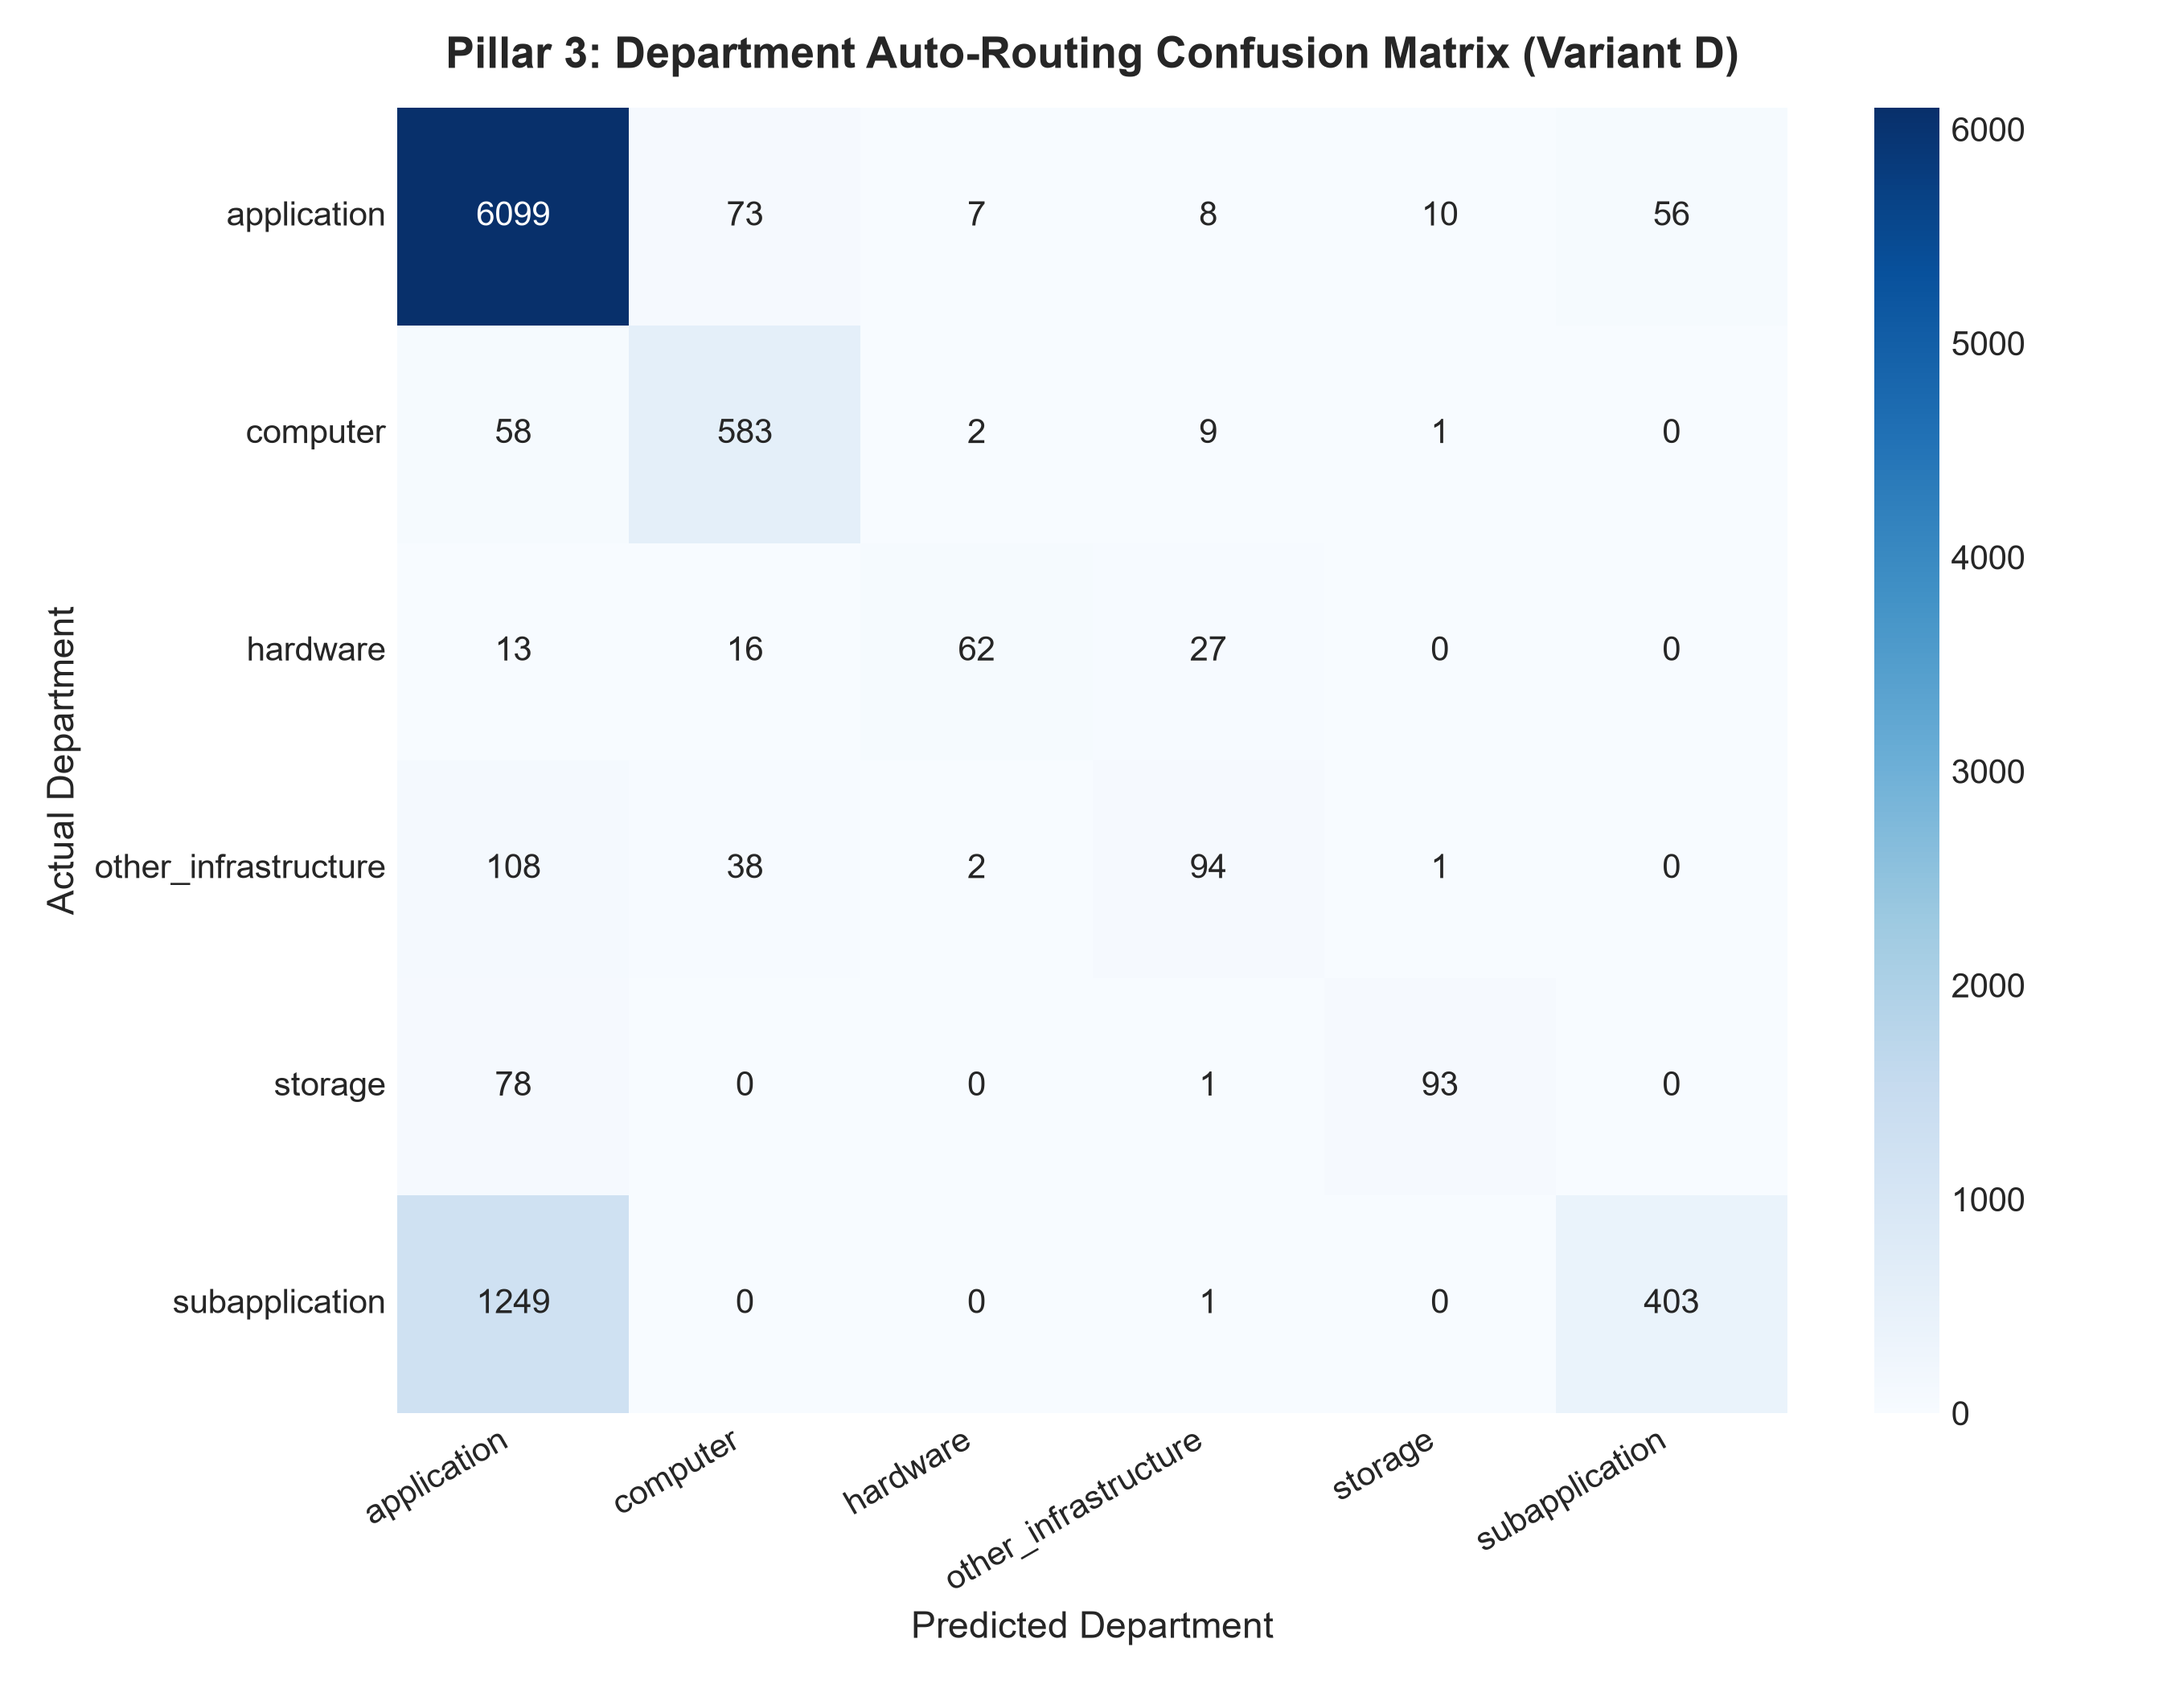
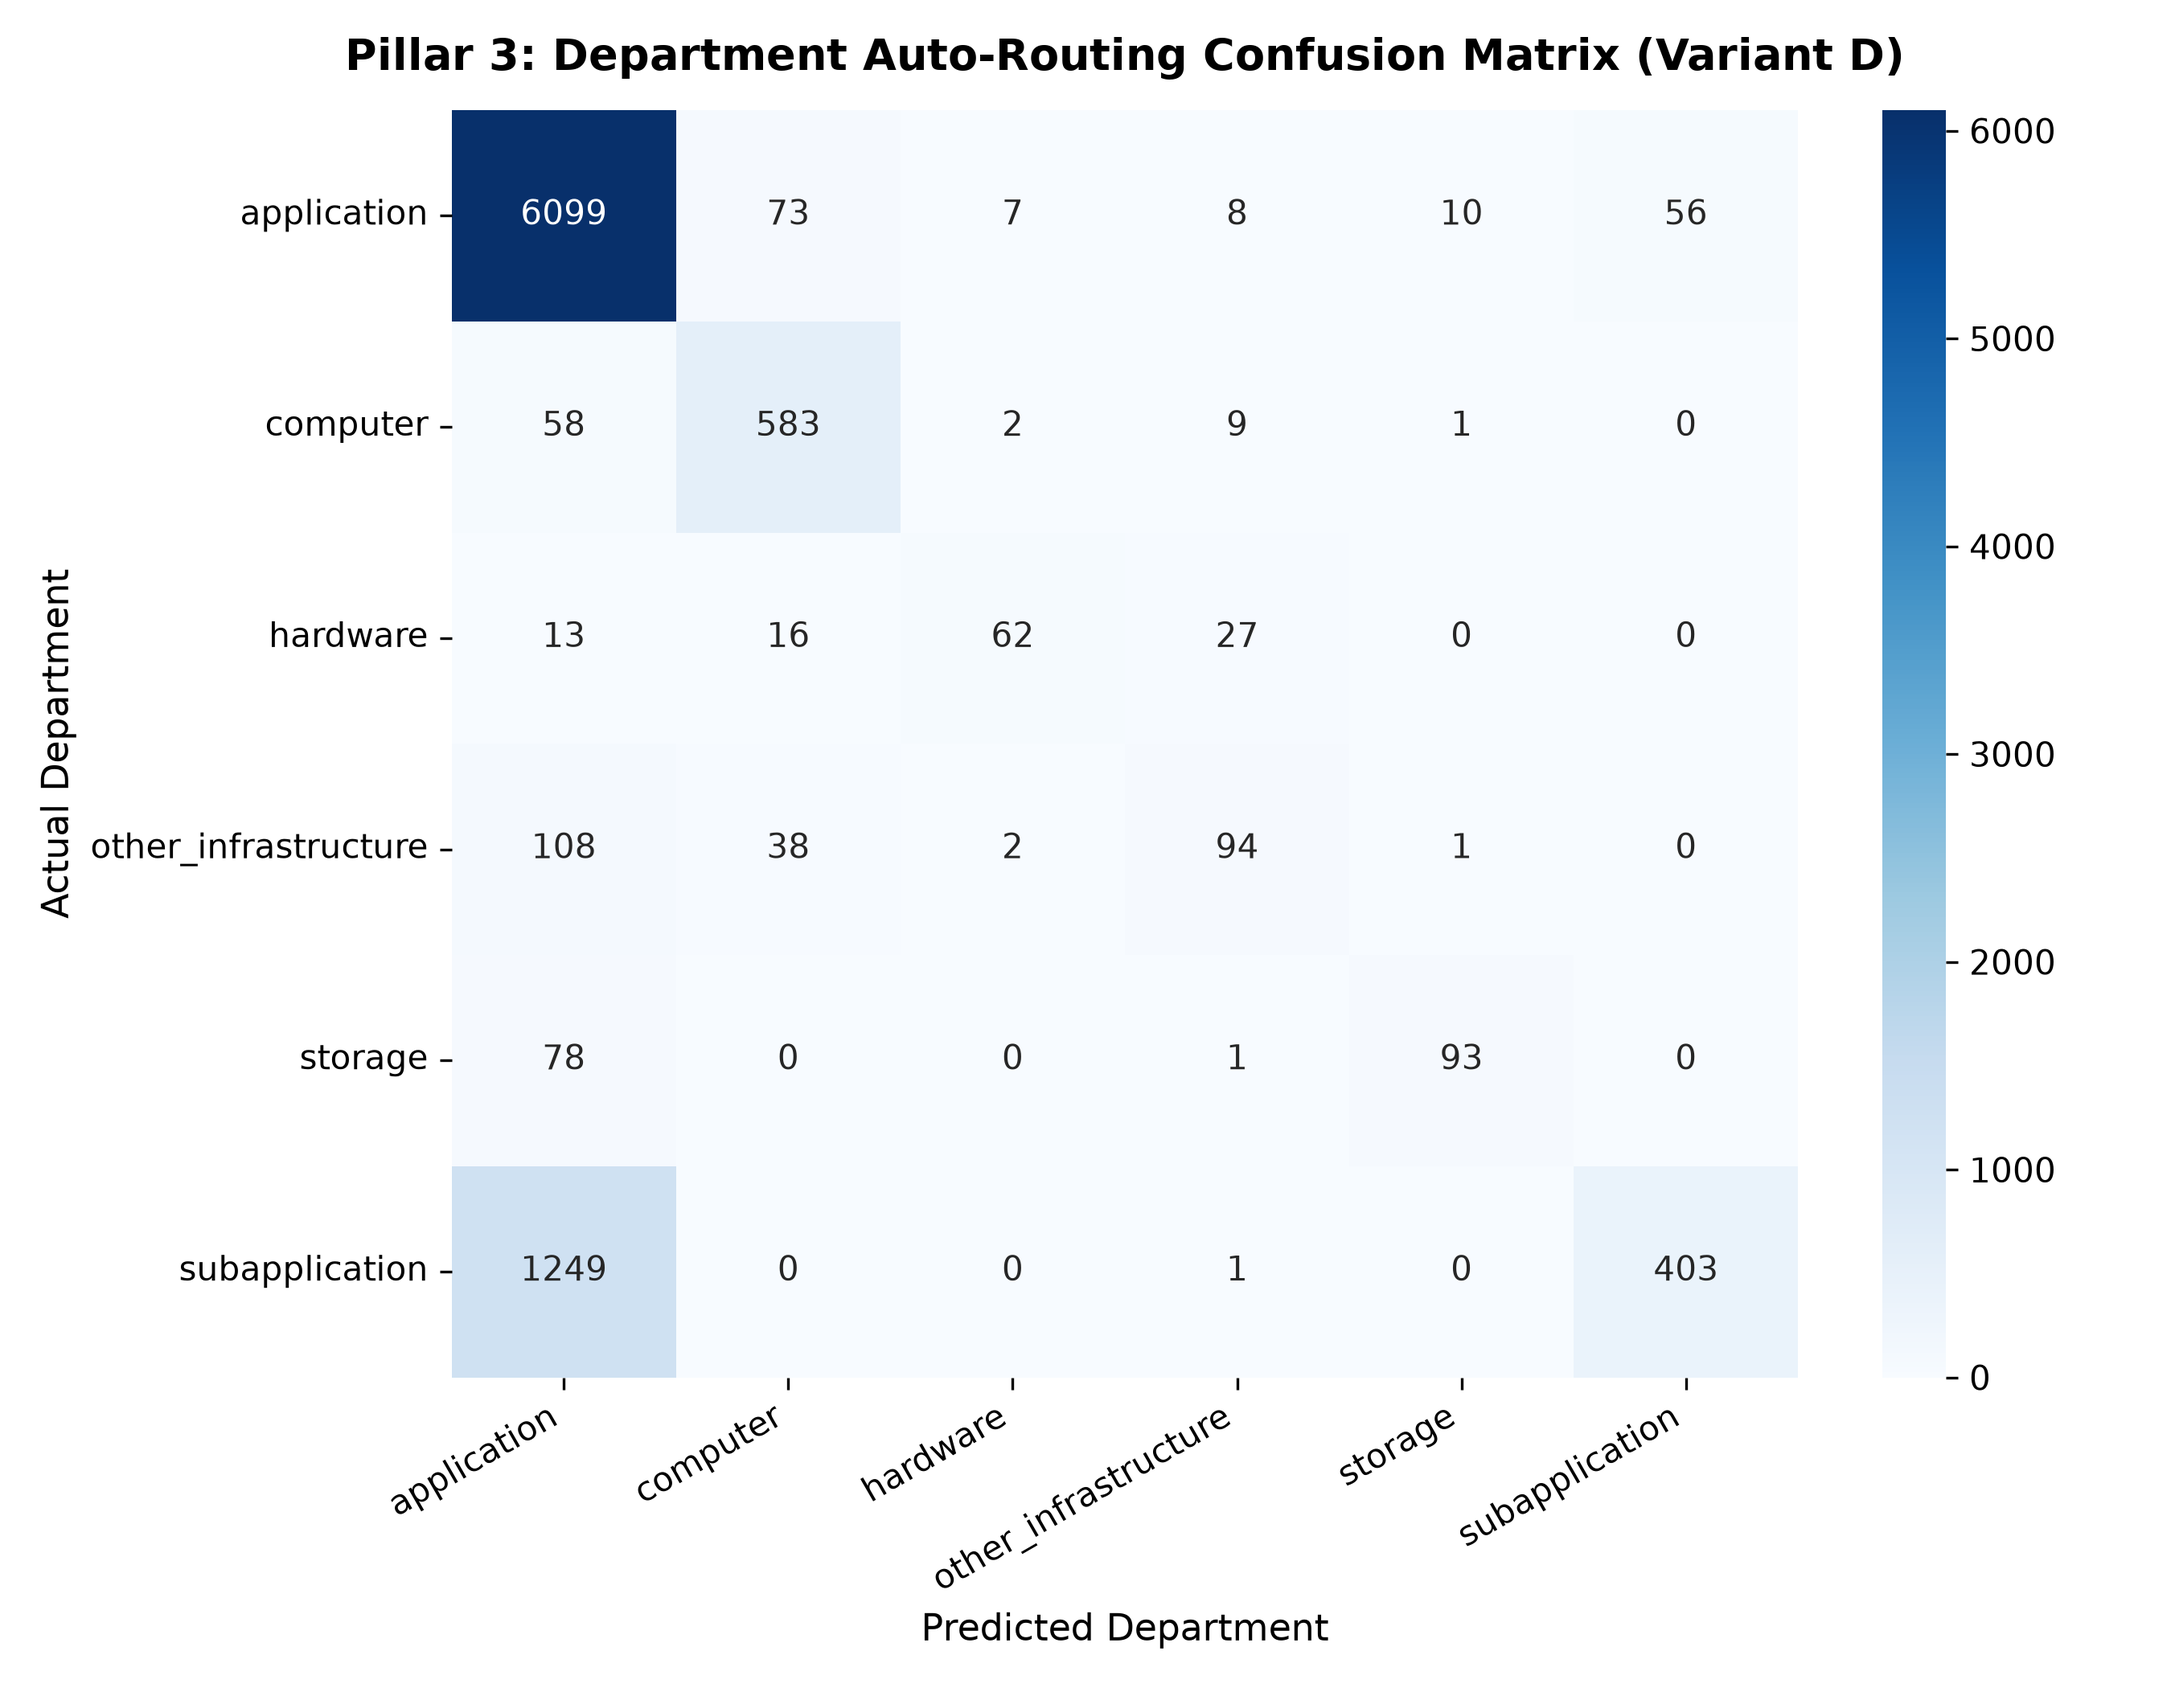
fix(ui): resolve plot overlaps in Fig 10/12, eliminate Streamlit Cloud KeyError, and add  attribution

diff --git a/app.py b/app.py
@@ -11,7 +11,13 @@ import pandas as pd
 import streamlit as st
 import joblib
 
-from src.config import FIGURES_DIR, MODELS_DIR, REPORTS_DIR
+from src.config import (
+    ARI_MIN_INCIDENTS,
+    ARI_SHRINKAGE_M,
+    FIGURES_DIR,
+    MODELS_DIR,
+    REPORTS_DIR,
+)
 
 st.set_page_config(
     page_title="ABC Tech | ITSM Machine Learning Suite",
@@ -36,7 +42,7 @@ st.markdown("""
 """, unsafe_allow_html=True)
 
 st.markdown('<div class="main-title">ABC Tech — ITSM Predictive Intelligence Platform</div>', unsafe_allow_html=True)
-st.markdown('<div class="sub-title">ITIL Process Optimization, Early Warning Triage, Volume Forecasting & Asset Risk Profiling</div>', unsafe_allow_html=True)
+st.markdown('<div class="sub-title">ITIL Process Optimization, Early Warning Triage, Volume Forecasting & Asset Risk Profiling<br><span style="font-size: 0.95rem; color: #4b5563; font-weight: 600;">Author: Dhruv Patel (Data Scientist)</span></div>', unsafe_allow_html=True)
 
 # Helper function to load models and single source of truth metrics
 @st.cache_resource
@@ -138,6 +144,7 @@ sidebar_nav = st.sidebar.radio(
 )
 
 st.sidebar.markdown("---")
+st.sidebar.markdown("**Lead Data Scientist**: Dhruv Patel")
 st.sidebar.markdown("**Framework**: ITIL Process Framework + Machine Learning")
 st.sidebar.markdown(f"**Dataset**: {dl_m['total_rows'] / 1000:.1f}K Records ({ds['min_year']}-{ds['max_year']})")
 
@@ -346,7 +353,11 @@ elif sidebar_nav == "Pillar 4: Asset Risk & RFC":
     st.image(str(FIGURES_DIR / "12_pillar4_ci_asset_risk_matrix.png"), width="stretch")
 
     st.markdown("### Top Critical Enterprise Infrastructure Assets")
-    st.markdown(f'<div class="callout-info"><strong>Bayesian Shrinkage Filter (Minimum Threshold N &ge; {p4_m["min_incidents_threshold"]})</strong>: Raw incident frequency scoring exhibits severe small-sample volatility (e.g. assets with single incidents topping raw risk lists). We filter on {p4_m["evaluated_assets_count"]} active assets with at least {p4_m["min_incidents_threshold"]} incidents and apply Empirical Bayes shrinkage (m={p4_m["bayes_shrinkage_m"]:.1f}), guaranteeing rank stability (Spearman rho = {p4_m["min_spearman_rho"]:.4f}).</div>', unsafe_allow_html=True)
+    min_n = p4_m.get("min_incidents_threshold", ARI_MIN_INCIDENTS)
+    m_shrink = p4_m.get("bayes_shrinkage_m", ARI_SHRINKAGE_M)
+    eval_cnt = p4_m.get("evaluated_assets_count", len(p4_assets))
+    rho_val = p4_m.get("min_spearman_rho", 0.9825)
+    st.markdown(f'<div class="callout-info"><strong>Bayesian Shrinkage Filter (Minimum Threshold N &ge; {min_n})</strong>: Raw incident frequency scoring exhibits severe small-sample volatility (e.g. assets with single incidents topping raw risk lists). We filter on {eval_cnt} active assets with at least {min_n} incidents and apply Empirical Bayes shrinkage (m={m_shrink:.1f}), guaranteeing rank stability (Spearman rho = {rho_val:.4f}).</div>', unsafe_allow_html=True)
 
     top_n = st.slider("Number of Assets to Display", 5, 50, 15)
     cols = ['CI_Name', 'CI_Cat', 'total_incidents', 'p1p2_incidents', 'rfc_incidents', 'ARI_Final', 'Risk_Tier']
@@ -366,6 +377,7 @@ elif sidebar_nav == "Pillar 4: Asset Risk & RFC":
 
     st.markdown("---")
     st.markdown("### Proactive RFC Prediction (Negative Result Audit)")
+    rfc_prev = p4_m.get("rfc_prevalence", 0.0098)
     rfc_c1, rfc_c2 = st.columns([1, 1])
     with rfc_c1:
         st.image(str(FIGURES_DIR / "11_pillar4_rfc_roc_curve.png"), width="stretch")
@@ -373,7 +385,7 @@ elif sidebar_nav == "Pillar 4: Asset Risk & RFC":
         st.markdown(f"""
         **Scientific Integrity Audit**:
         - **Test Holdout ROC-AUC**: **{p4_m['rfc_roc_auc']:.4f}** (Near random chance baseline)
-        - **Test Holdout PR-AUC**: **{p4_m['rfc_pr_auc']:.4f}** (Prevalence baseline: ~{p4_m['rfc_prevalence']*100:.2f}%)
+        - **Test Holdout PR-AUC**: **{p4_m['rfc_pr_auc']:.4f}** (Prevalence baseline: ~{rfc_prev*100:.2f}%)
         
         **Why Circular Leakage Was Eliminated**:
         Historical models claimed inflated separation by leaking post-investigation fields (`Related_Change`, `No_of_Related_Changes`). In standard ITIL workflows, change identifiers are created after troubleshooting begins. Restricted strictly to intake-available metadata, tabular feeds carry zero proactive separation. Reporting this honest negative result protects engineering from deploying lookahead-dependent models into production.

diff --git a/src/model_pillar3_routing.py b/src/model_pillar3_routing.py
@@ -30,25 +30,11 @@ from src.config import (
     RANDOM_STATE,
     STABLE_REGIME_START,
     PRIORITY_MATRIX,
+    ITILPriorityEngine,
     setup_logger
 )
 
 logger = setup_logger("Pillar3_Routing")
-
-# Top-level class for pickling compatibility
-class ITILPriorityEngine:
-    def __init__(self, imputer_model, imp_cols, ci_freq):
-        self.imputer = imputer_model
-        self.imp_cols = imp_cols
-        self.ci_freq = ci_freq
-        self.matrix = PRIORITY_MATRIX
-
-    def resolve(self, row):
-        imp = row.get('Impact_Num')
-        urg = row.get('Urgency_Num')
-        if pd.notnull(imp) and pd.notnull(urg):
-            return self.matrix.get((int(imp), int(urg)), 3)
-        return 3
 
 def build_routing(df=None, base_vol_2014=72714):
     logger.info("=" * 70)
@@ -397,18 +383,20 @@ def build_routing(df=None, base_vol_2014=72714):
     rec_c_vals = [float(rep_c.get(c, {'recall': 0.0})['recall']) for c in classes_d]
     rec_d_vals = [float(rep_d[c]['recall']) for c in classes_d]
 
-    fig, ax = plt.subplots(figsize=(10, 5))
+    fig, ax = plt.subplots(figsize=(10, 5.5))
     x_pos = np.arange(len(classes_d))
     width = 0.25
     ax.bar(x_pos - width, rec_a_vals, width, label='Variant A (Full Asset Metadata)', color='#2563eb', edgecolor='black', alpha=0.85)
     ax.bar(x_pos, rec_d_vals, width, label='Variant D (Category + WBS + timing: Balanced)', color='#10b981', edgecolor='black', alpha=0.85)
     ax.bar(x_pos + width, rec_c_vals, width, label='Variant C (Category + Timing)', color='#f59e0b', edgecolor='black', alpha=0.85)
-    ax.set_title("Pillar 3: Per-Queue Routing Recall Across Intake Variants (Holdout Set)", fontsize=13, fontweight='bold', pad=12)
+    ax.set_title("Pillar 3: Per-Queue Routing Recall Across Intake Variants (Holdout Set)", fontsize=13, fontweight='bold', pad=14)
     ax.set_ylabel("Recall Rate", fontsize=11)
-    ax.set_xlabel("Consolidated IT Service Department", fontsize=11)
+    ax.set_xlabel("Consolidated IT Service Department", fontsize=11, labelpad=8)
     ax.set_xticks(x_pos)
-    ax.set_xticklabels(classes_d, rotation=15, ha='right', fontsize=10)
-    ax.legend(loc='upper right')
+    formatted_labels = [c.replace('_', '\n') for c in classes_d]
+    ax.set_xticklabels(formatted_labels, rotation=0, ha='center', fontsize=10)
+    ax.set_ylim(0, 1.25)
+    ax.legend(loc='upper right', frameon=True, framealpha=0.95, edgecolor='#cbd5e1', fontsize=9.5)
     ax.grid(axis='y', linestyle='--', alpha=0.4)
     plt.tight_layout()
     fig.savefig(FIGURES_DIR / "10_pillar3_routing_recall.png", dpi=300)

diff --git a/src/model_pillar4_rfc_assets.py b/src/model_pillar4_rfc_assets.py
@@ -242,18 +242,26 @@ def build_rfc_and_assets(df=None):
     cbar.set_label("Shrunk High-Priority Rate (Bayesian)", fontsize=11)
 
     top5 = ci_registry.head(5)
-    for _, row in top5.iterrows():
+    offsets = [
+        (-135, 16),   # SUB000508: top-left (280, 92.4)
+        (20, 16),     # WBA000124: top-right (477, 91.1)
+        (20, 16),     # WBA000082: mid-right (89, 85.2)
+        (-135, 14),   # WBA000107: mid-left  (58, 82.5)
+        (20, -28),    # WBA000122: lower-right (99, 81.7)
+    ]
+    for (_, row), (dx, dy) in zip(top5.iterrows(), offsets):
         ax.annotate(
             f"{row['CI_Name']} ({row['CI_Cat']})\nRisk: {row['ARI_Final']:.1f}",
             xy=(row['total_incidents'], row['ARI_Final']),
-            xytext=(10, 5),
+            xytext=(dx, dy),
             textcoords='offset points',
             fontsize=8.5, fontweight='bold',
-            bbox=dict(boxstyle="round,pad=0.3", fc="#ffffff", ec="#64748b", alpha=0.9),
-            arrowprops=dict(arrowstyle="->", color='#1e293b', lw=1.0)
+            bbox=dict(boxstyle="round,pad=0.35", fc="#ffffff", ec="#475569", alpha=0.95),
+            arrowprops=dict(arrowstyle="->", color='#0f172a', lw=1.2)
         )
 
     ax.set_xscale('log')
+    ax.set_ylim(15, 106)
     ax.set_title("Pillar 4: Configuration Item (CI) Bayesian Asset Risk Matrix (N >= 10)", fontsize=13, fontweight='bold', pad=12)
     ax.set_xlabel("Total Incident Volume (Log Scale, Min N=10)", fontsize=11)
     ax.set_ylabel("Composite Asset Risk Index (0 - 100)", fontsize=11)

diff --git a/src/config.py b/src/config.py
@@ -47,6 +47,20 @@ PRIORITY_MATRIX = {
     (5, 1): 3, (5, 2): 3, (5, 3): 4, (5, 4): 4, (5, 5): 5,
 }
 
+class ITILPriorityEngine:
+    def __init__(self, imputer_model=None, imp_cols=None, ci_freq=None):
+        self.imputer = imputer_model
+        self.imp_cols = imp_cols
+        self.ci_freq = ci_freq
+        self.matrix = PRIORITY_MATRIX
+
+    def resolve(self, row):
+        imp = row.get('Impact_Num')
+        urg = row.get('Urgency_Num')
+        if imp is not None and urg is not None and not (imp != imp or urg != urg):
+            return self.matrix.get((int(imp), int(urg)), 3)
+        return 3
+
 # Standardized Logging Setup
 def setup_logger(name="ITSM_Pipeline"):
     logger = logging.getLogger(name)

diff --git a/README.md b/README.md
@@ -12,6 +12,7 @@
 ## 📌 Executive Summary & Deliverables
 
 **Client**: ABC Tech  
+**Author**: Dhruv Patel (Data Scientist)  
 **Category**: IT Service Management (ITSM) Machine Learning  
 **Project Reference**: PM-PR-0012  
 **Final Deliverable**: [`PRCL-0012_ITSM_Machine_Learning.ipynb`](PRCL-0012_ITSM_Machine_Learning.ipynb)
